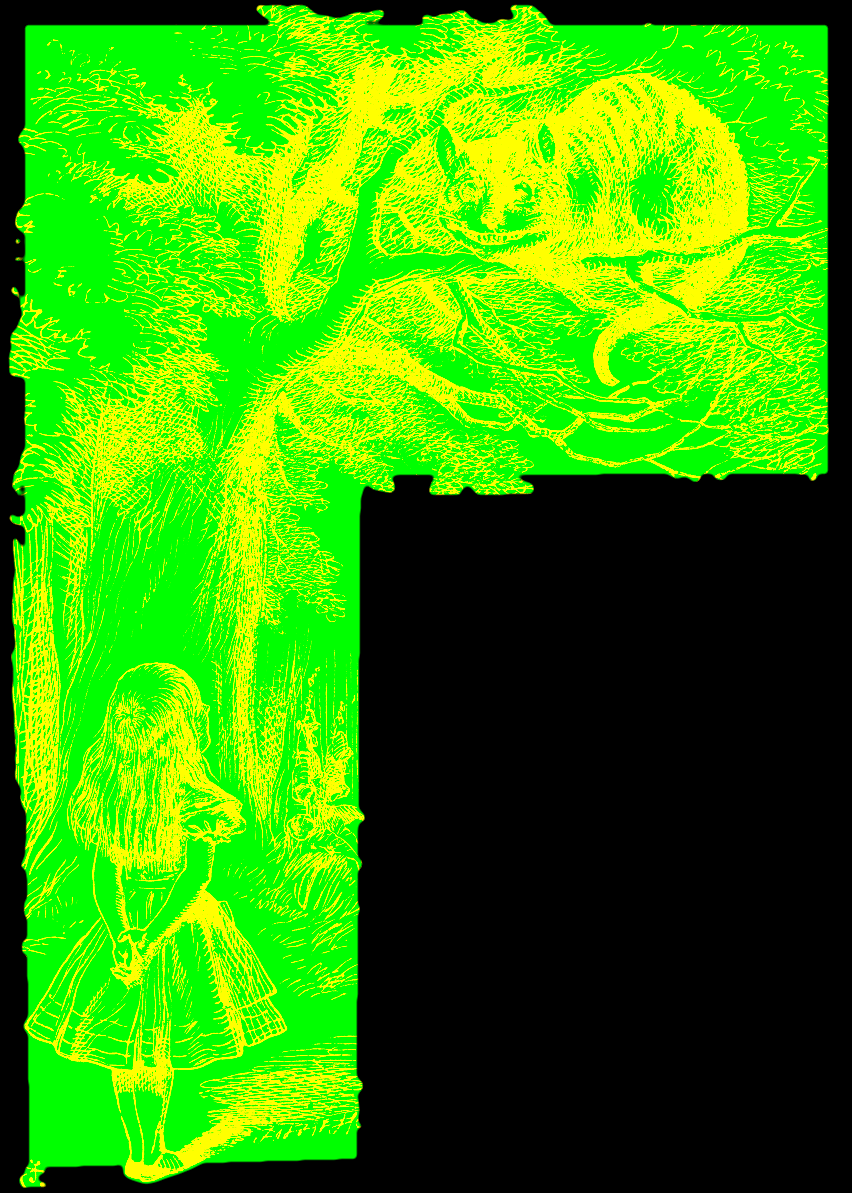
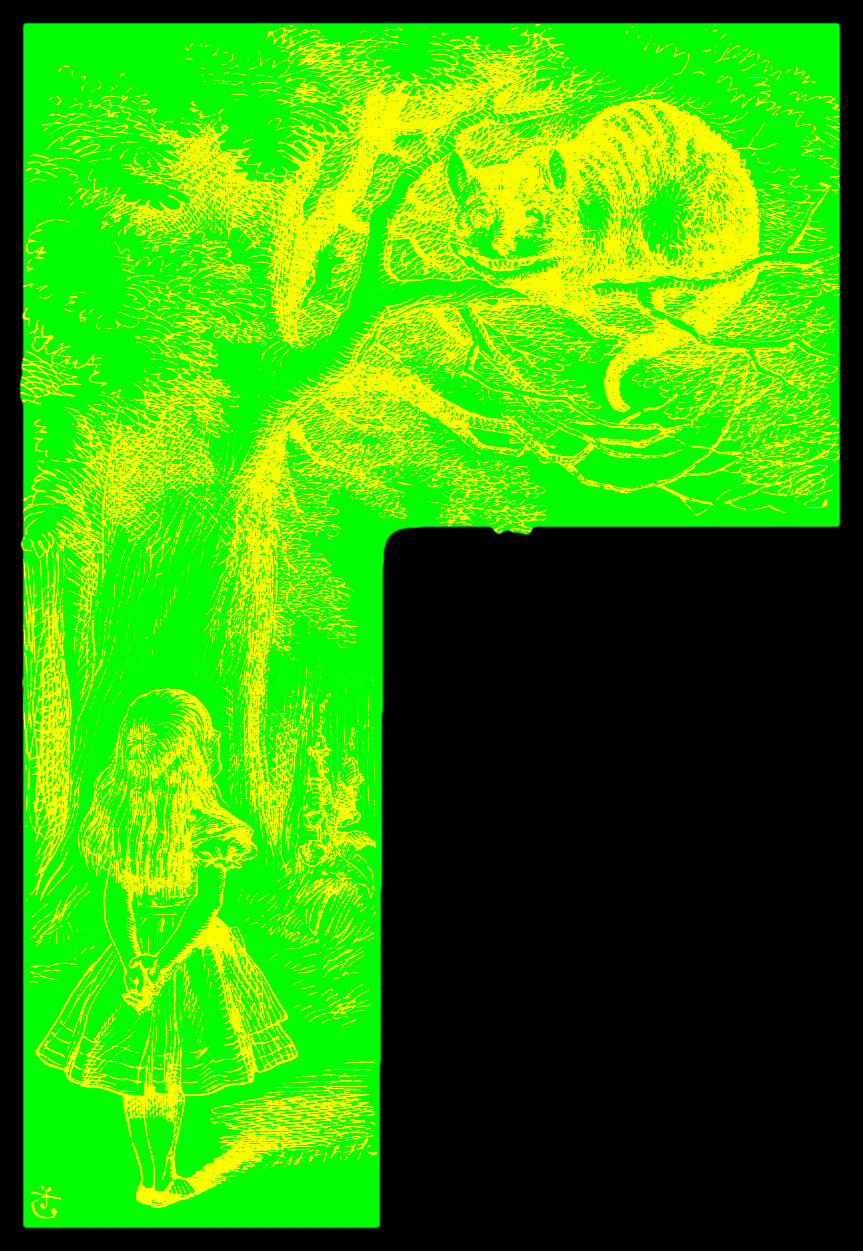
Keep hand-colouring inside each figure; soften the Cheshire plate's edges
Washes are now clipped to the figure's own outline (a raster mask), so
they no longer print as boxes round the engravings, and the Cheshire
Cat plate is re-cut so its edge follows Tenniel's ink.

diff --git a/src/print/tenniel.ts b/src/print/tenniel.ts
@@ -84,12 +84,34 @@ export function printFigure(press: Press, fig: PrintedFigure, height: number, bo
   const w = f.w * k;
   if (fade <= 0) return { w, h: height };
   press.figure(f, -w / 2, -height, height, { ...fig.ink, ...extraInk }, { fade });
-  // Washes: loose, wobbled shapes that drift a little on the boil, like hand colouring.
+  // Washes: loose, wobbled shapes that drift a little on the boil, like hand colouring,
+  // kept inside the figure's own outline.
+  const mask = alphaOf(fig.src, f);
   for (const [i, wash] of fig.washes.entries()) {
     const pts = wash.pts.map(([x, y]) => [(x - fig.offset[0]) * k - w / 2, (y - fig.offset[1]) * k - height] as Pt);
-    press.fill(curvy(wobble(pts, true, 2.2, i * 13 + (boil % 3), 6)), scaleTones(wash.tones, fade), { over: true });
+    press.fillWithin(curvy(wobble(pts, true, 2.2, i * 13 + (boil % 3), 6)), scaleTones(wash.tones, fade), mask, -w / 2, -height, w, height);
   }
   return { w, h: height };
+}
+
+/** A figure's shape as an alpha mask (opaque inside the figure), made once per figure. */
+const alphas = new Map<string, HTMLCanvasElement>();
+function alphaOf(src: string, f: Figure) {
+  const hit = alphas.get(src);
+  if (hit) return hit;
+  const sh = f.shape;
+  const read = sh.getContext('2d')!.getImageData(0, 0, sh.width, sh.height);
+  const d = read.data;
+  for (let i = 0; i < d.length; i += 4) {
+    d[i + 3] = d[i];
+    d[i] = d[i + 1] = d[i + 2] = 255;
+  }
+  const cv = document.createElement('canvas');
+  cv.width = sh.width;
+  cv.height = sh.height;
+  cv.getContext('2d')!.putImageData(read, 0, 0);
+  alphas.set(src, cv);
+  return cv;
 }
 
 const scaleTones = (t: Tones, k: number): Tones => {
@@ -265,8 +287,8 @@ export const ALICE_WOOD: PrintedFigure = {
 /** Plate 23: the Cheshire Cat on his bough; Alice looks up at him. */
 export const CHESHIRE_TREE: PrintedFigure = {
   src: '/illustrations/figures/cheshire-tree.png',
-  offset: [11, 26],
-  sourceH: 1193,
+  offset: [0, 0],
+  sourceH: 1251,
   ink: { a: 1, b: 0.8 },
   washes: [
     { pts: [[20, 40], [860, 40], [860, 500], [300, 520], [200, 640], [20, 640]], tones: LEAVES },

diff --git a/src/print/press.ts b/src/print/press.ts
@@ -97,6 +97,7 @@ export class Press {
   h = 0;
   private scale = 1;
   private clearMask: HTMLCanvasElement | null = null;
+  private washCanvas: HTMLCanvasElement | null = null;
   private clearKey = '';
   private plates: Record<Ink, Plate>;
   private gl: WebGLRenderingContext | null;
@@ -189,6 +190,38 @@ export class Press {
       g.fill(path);
       g.globalAlpha = 1;
       g.globalCompositeOperation = 'source-over';
+    }
+  }
+
+  /**
+   * Fill a shape, but only where a raster mask is opaque: used for hand-colouring a figure,
+   * so the washes stay inside its outline instead of printing as boxes round it. The mask
+   * (an alpha canvas) is drawn at (x, y, w, h) in the current coordinates. Raises inks only.
+   */
+  fillWithin(path: Path2D, tones: Tones, mask: HTMLCanvasElement, x: number, y: number, w: number, h: number) {
+    for (const n of INK_NAMES) {
+      const t = tones[n];
+      if (t == null) continue;
+      const g = this.plates[n].g;
+      const tmp = (this.washCanvas ??= document.createElement('canvas'));
+      if (tmp.width !== g.canvas.width || tmp.height !== g.canvas.height) {
+        tmp.width = g.canvas.width;
+        tmp.height = g.canvas.height;
+      }
+      const tg = tmp.getContext('2d')!;
+      tg.setTransform(1, 0, 0, 1, 0, 0);
+      tg.globalCompositeOperation = 'source-over';
+      tg.clearRect(0, 0, tmp.width, tmp.height);
+      tg.setTransform(g.getTransform());
+      tg.fillStyle = typeof t === 'function' ? t(tg) : grey(t);
+      tg.fill(path);
+      tg.globalCompositeOperation = 'destination-in';
+      tg.drawImage(mask, x, y, w, h);
+      g.save();
+      g.setTransform(1, 0, 0, 1, 0, 0);
+      g.globalCompositeOperation = 'lighten';
+      g.drawImage(tmp, 0, 0);
+      g.restore();
     }
   }
 
